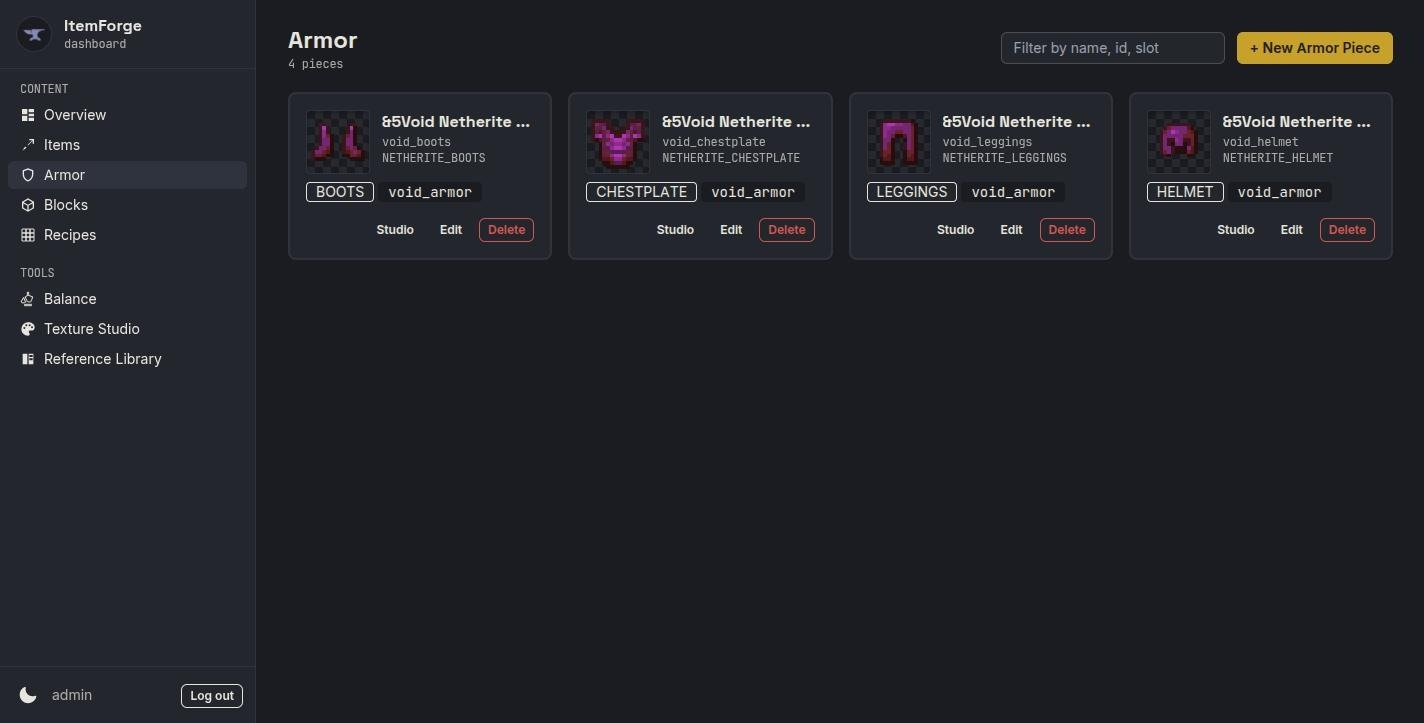
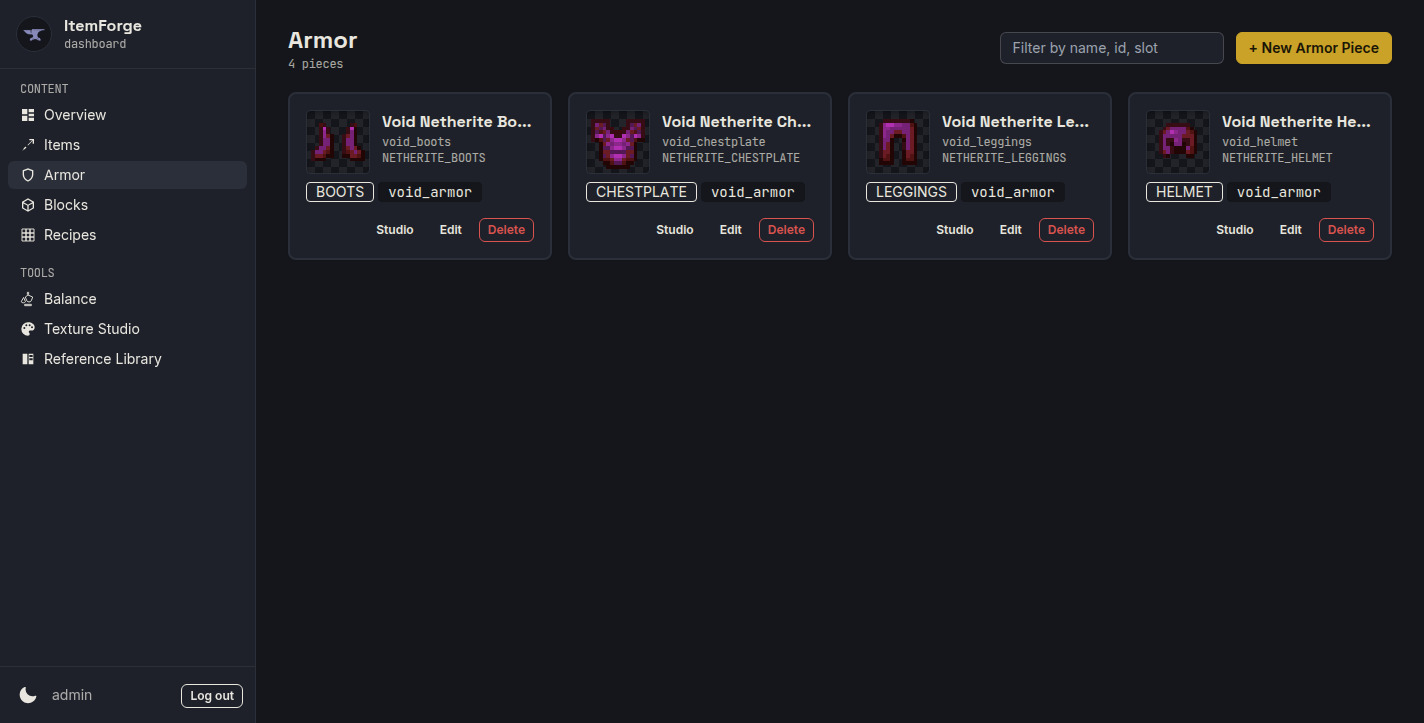
docs: re-capture the dashboard showcase after the 1.0.1 fixes
The dashboard screenshots still showed raw colour codes in names and
balance-rerun.gif still showed AI findings about other items after
narrowing, both of which the fixes on develop changed.

Re-captured against a build of develop: the overview, item and armor
lists, the light theme, the three Texture Studio stills, the balance
report, and the item-create, studio, AI-generate and balance-rerun
GIFs. The AI-generated staff differs from the earlier run, so the text
about it is updated to describe what this run returned.

Also removes stray blank lines between the Fixed entries in the
changelog.

diff --git a/docs/showcase/README.md b/docs/showcase/README.md
@@ -1,6 +1,6 @@
 # ItemForge in action
 
-Everything on this page was captured from a real run: Paper 1.21.11 started through the
+Everything on this page was captured from real runs: Paper 1.21.11 started through the
 [Quick Docker Setup](../../README.md#quick-docker-setup-optional), the sample "Void Netherite"
 content that ships with the plugin, and the textures from
 [`examples/textures/`](../../examples/textures/). A few extra items (`storm_blade`, `ember_staff`,
@@ -58,7 +58,7 @@ it drops whatever `drop-item-id` names — a vanilla netherite block here.
 ### From the browser to the game
 
 This sword was created, drawn, and given a recipe entirely in the [dashboard](#web-dashboard) —
-the GIFs further down show each step.
+the GIFs further down show the same steps.
 
 ![The Storm Blade held in game](ingame-storm-blade.jpg)
 
@@ -157,8 +157,9 @@ opinion — weigh them accordingly.
 
 ![Balance report grouped by severity](balance-report.jpg)
 
-Type an id and re-run to narrow the rule findings to a single item. Only the results are swapped
-in; the page does not reload.
+Type an id and re-run to narrow the report to a single item. What remains is that item's own
+findings plus any about the config as a whole (`*`). Only the results are swapped in; the page
+does not reload.
 
 ![Narrowing the report to one id and re-running](balance-rerun.gif)
 
@@ -176,9 +177,10 @@ provider fills in the material, name, lore, and abilities for you to review befo
 
 ![Generating an item from a text description](dashboard-ai-generate.gif)
 
-The generated item is ordinary config, so it goes through balance analysis like anything else.
-The staff above came back with a 60-second effect on a 30-second cooldown, which the
-`PERMANENT_EFFECT` rule reports.
+The generated item is ordinary config, so it goes through balance analysis like anything else,
+and what comes back varies from run to run. The staff above got a 10-second effect on a 30-second
+cooldown. An earlier run of the same prompt returned 60 seconds on 30 — the `PERMANENT_EFFECT`
+finding for `ember_staff` in the in-game `/itemforge analyze` screenshot [above](#commands).
 
 ## Console output
 

diff --git a/CHANGELOG.md b/CHANGELOG.md
@@ -16,17 +16,14 @@ section below is published verbatim as the notes of the matching GitHub Release.
 - Narrowing a balance report to one id (`/itemforge analyze <id>`, or the box on the dashboard's
   Balance page) now narrows the AI findings too. They used to come back about every item in the
   config while the rule findings were correctly limited to the one asked about.
-
 - `/itemforge analyze` (with AI enabled) and `/itemforge generate` no longer lose their result when
   run over RCON. Both finish on a background task, after the RCON response has already been sent,
   so the report used to reach neither the RCON client nor the log. It is now printed to the server
   console, and the RCON client is told to look there.
-
 - The dashboard no longer shows raw colour codes in names. Item, armor and block lists, the
   Overview page and the Texture Studio title printed `&5Void Netherite Sword` as written in the
   config; they now show the plain name, and a block's thumbnail fallback is its first letter
   rather than `&`. The edit forms still show the codes, since that is where you change them.
-
 - Dashboard pages no longer scroll a few pixels past their own layout. A stray third copy of the
   light/dark switch was rendered below the page, which added a scrollbar to pages that fit the
   window and, when scrolled to the bottom, pushed the sidebar up and showed the extra switch.
